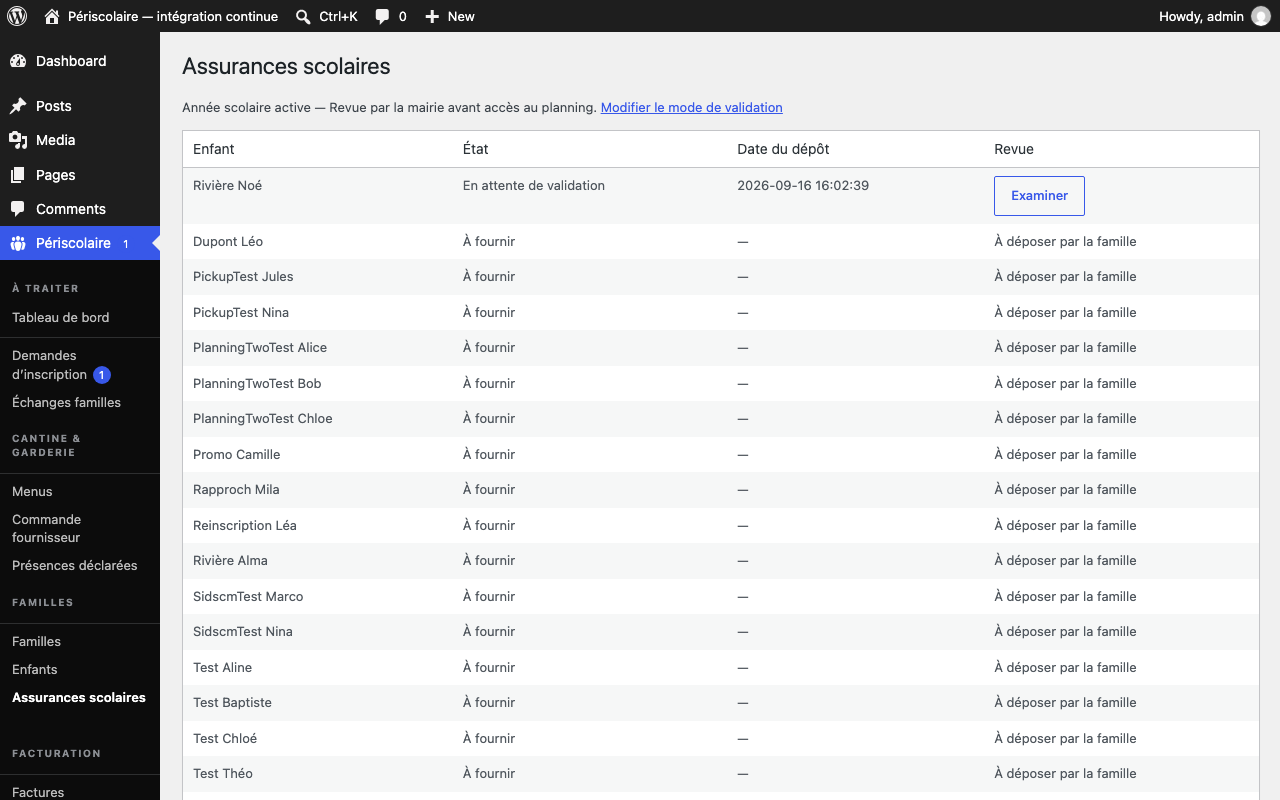
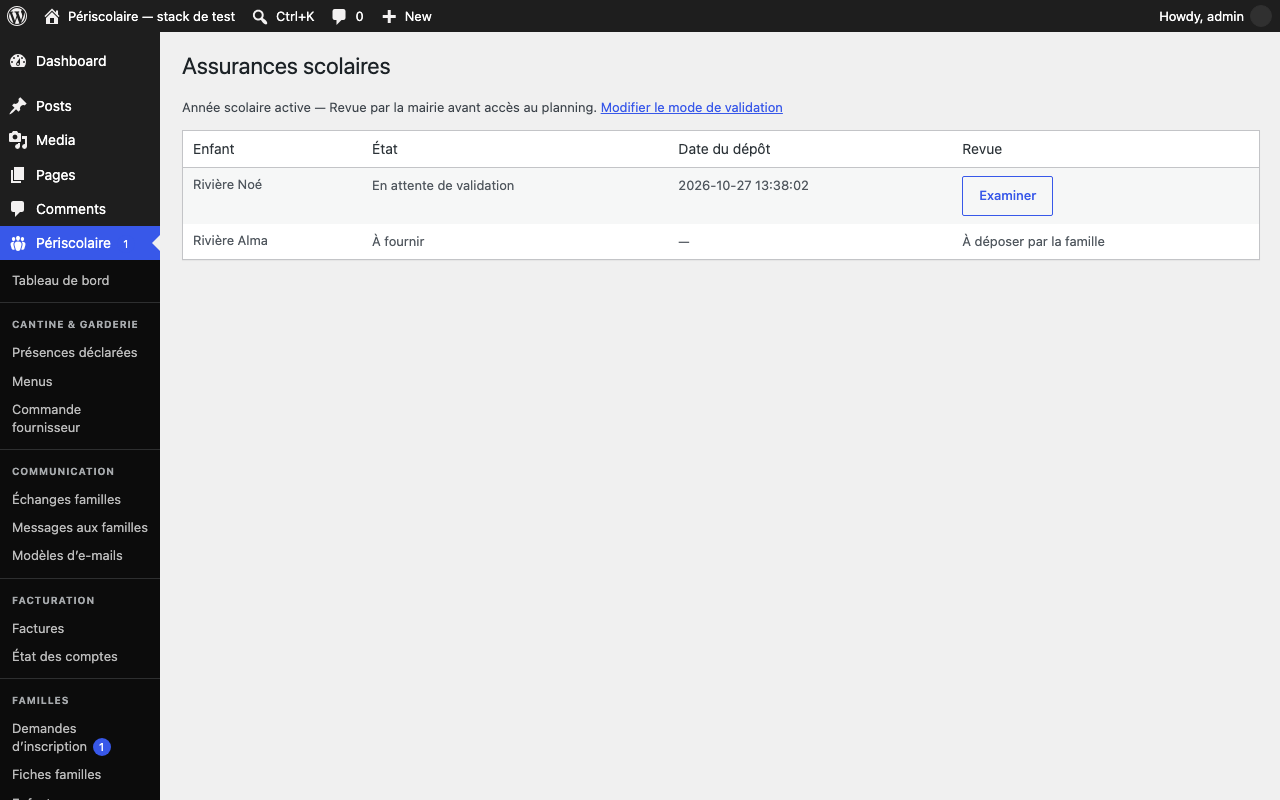
docs: captures du back-office au menu 5.38.1 et à la version 5.39.0
Les 21 captures régénérées sur la stack de test (base neuve, jeu de
données fictif) : menu Périscolaire par domaine, version 5.39.0. Le
script de capture masque désormais les avis propres au poste qui
capture (étapes de maintenance d'une installation neuve, retard des
tâches planifiées), comme il masquait déjà « WordPress x.y est
disponible ».

Claude-Session: https://claude.ai/code/session_01JjbusyBQDpFka9m4dZ3TRz

diff --git a/scripts/screenshots/capture.spec.ts b/scripts/screenshots/capture.spec.ts
@@ -74,9 +74,11 @@ async function frame(page: Page, locator: Locator): Promise<void> {
 }
 
 async function capture(page: Page, filename: string, fullPage = false): Promise<void> {
-  // L'avis « WordPress x.y est disponible » dépend du poste qui capture,
-  // pas de l'extension : il n'a pas sa place dans la documentation.
-  await page.addStyleTag({ content: '.update-nag { display: none !important; }' });
+  // Les avis liés au poste qui capture n'ont pas leur place dans la
+  // documentation : « WordPress x.y est disponible », les étapes de
+  // maintenance d'une installation neuve (stack de test), le retard des
+  // tâches planifiées d'une stack sans trafic.
+  await page.addStyleTag({ content: '.update-nag, [data-testid="notice-maintenance"], [data-testid="notice-cron-late"] { display: none !important; }' });
   await page.screenshot({ path: path.join(SCREENSHOTS_DIR, filename), fullPage });
 }
 
